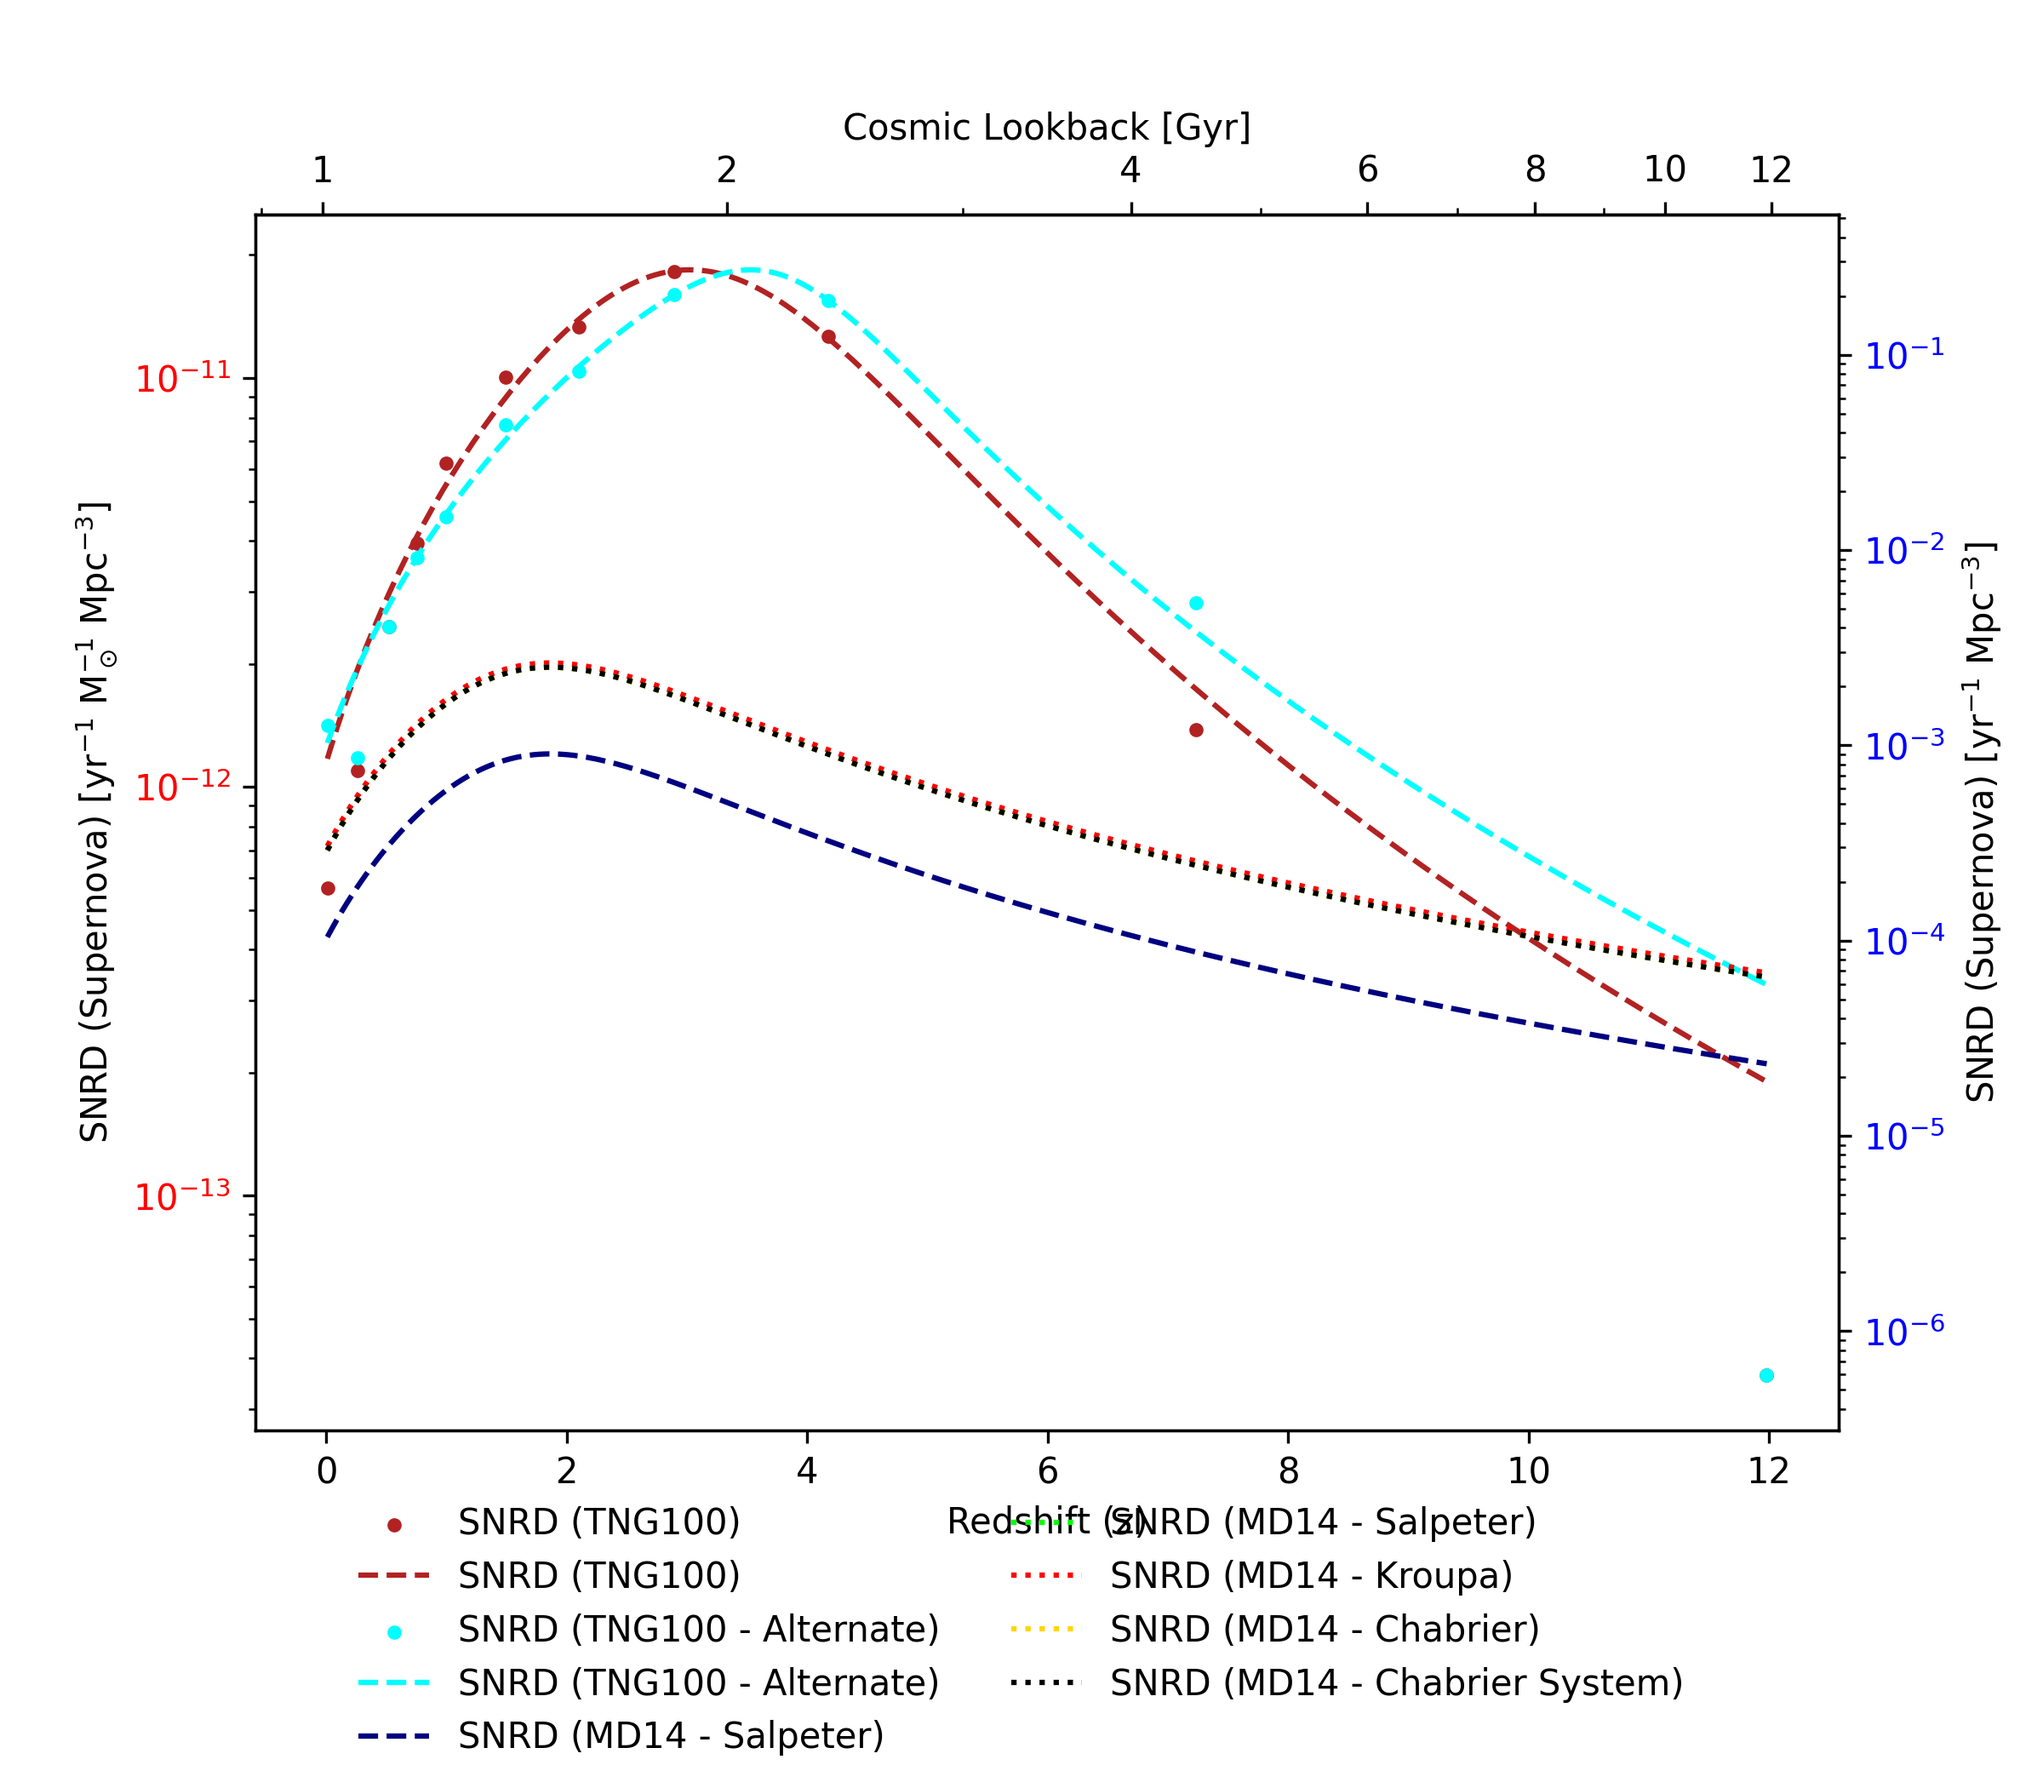
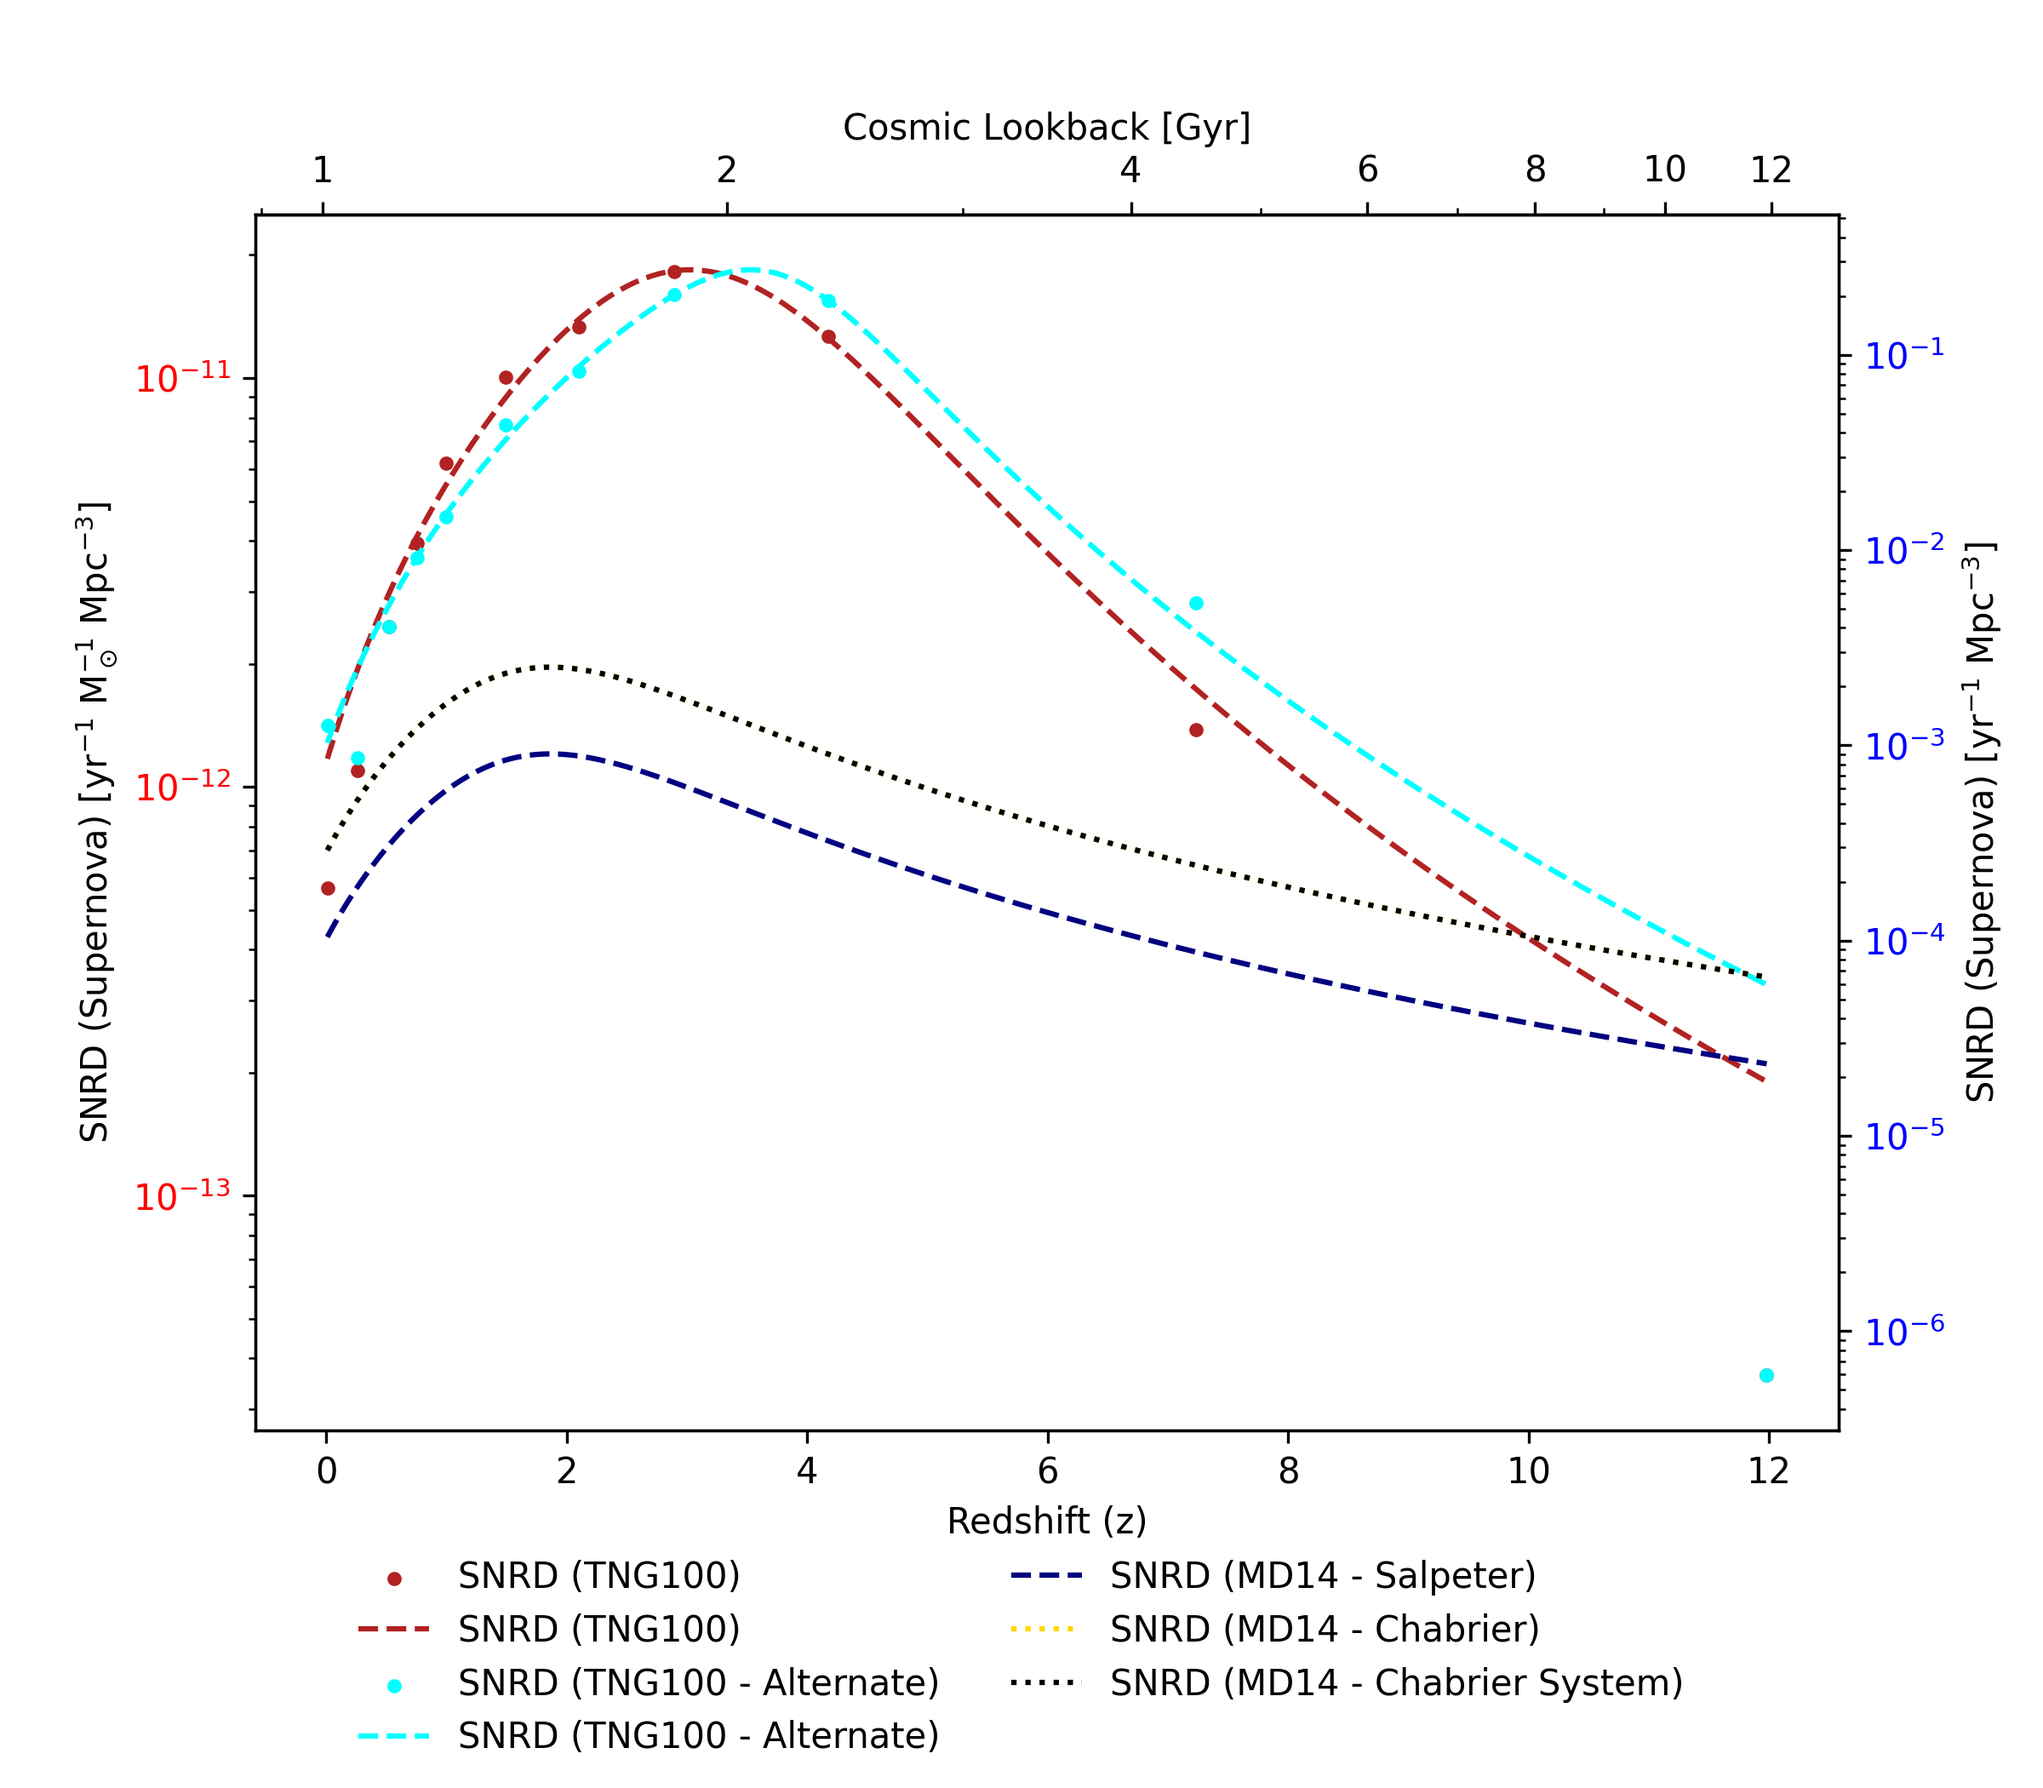
sfr from snr

diff --git a/tng.py b/tng.py
@@ -60,6 +60,7 @@ def count_lines_fast(path):
 
 # region Build
 def build_rates(snap):
+    build_type = "Ic"
     position = snapshots.index(snap) + 1
     input_path = f"/Users/dan/Code/FYP/Data/TNG/Snapshot_{snap}/*"
     my_glob = glob.glob(input_path)
@@ -92,7 +93,7 @@ def build_rates(snap):
 
     print(f"    {len(subhalo_rows)} subhalos with postive rates")
     subhalo_df = pd.DataFrame(subhalo_rows)
-    subhalo_df.to_csv(f"/Users/dan/Code/FYP/Data/TNG/Rates/Ic/snapshot{snap}_rates.csv")
+    subhalo_df.to_csv(f"/Users/dan/Code/FYP/Data/TNG/Rates/{build_type}/snapshot{snap}_rates.csv")
 
     return subhalo_df
 
@@ -503,6 +504,7 @@ def cosmic_level(snaps):
     # we will want a chabrier (need to caluclate it)
     # use IMFs defined previously 
     # formula is integral imf / integral mass * imf 
+    # kcc given in Mo-1 
     csnrh = csfrh * 0.0068
 
     kcc_salpeter = supernova_efficiency(imf.salpeter)
@@ -519,34 +521,41 @@ def cosmic_level(snaps):
     print(kcc_kroupa)
     print(kcc_chabrier)
     print(kcc_chabrier_sys)
+
+    # trace sfrd using snrd 
+    # use new units snrd in yr-1 Mpc-3 and divide by kcc (Mo-1) gets Mo yr-1 Mpc-3 (SFRD)
+    csfrh_kcc_md14 = md14_snrd_alt_scaled / 0.0068
+    csfrh_kcc_chabrier = md14_snrd_alt_scaled / kcc_chabrier
     
     # CSNRH plot
     fig_csnrh, ax_csnrh1, ax_csnrh2 = plt_cosmo(rev_redshifts, r'SNRD (Supernova) [$\mathrm{yr^{-1}\ M_\odot^{-1}\ Mpc^{-3}}$]', r'SNRD (Supernova) [$\mathrm{yr^{-1}\ Mpc^{-3}}$]', space=0.2)
     # scatters
     #sc_csnrh1 = ax_csnrh1.scatter(rev_redshifts, rev_snrd, color='Red', label='SNRD (TNG100)', marker='.')
-    sc_csnrh2 = ax_csnrh1.scatter(rev_redshifts, rev_snrd_1000_scaled, color='firebrick', label="SNRD (TNG100)", marker='.')
+    sc_csnrh2 = ax_csnrh1.scatter(rev_redshifts, rev_snrd_1000_scaled, color='firebrick', label="TNG100", marker='.')
     #sc_csnrh3 = ax_csnrh2.scatter(rev_redshifts, rev_snrd_alt, color='Blue', label='SNRD (TNG100 - no mass)', marker='.')
-    sc_csnrh4 = ax_csnrh2.scatter(rev_redshifts, rev_snrd_alt_scaled, color='Aqua', label='SNRD (TNG100 - Alternate)', marker='.')
+    sc_csnrh4 = ax_csnrh2.scatter(rev_redshifts, rev_snrd_alt_scaled, color='Aqua', label='TNG100 - Alternate', marker='.')
     # lines
     #ls_csnrh1, = ax_csnrh1.plot(redshift_linespace, md14_snrd, linestyle='--', color='Red', label="SNRD (TNG100)")
-    ls_csnrh2, = ax_csnrh1.plot(redshift_linespace, md14_snrd_scaled, linestyle='--', color='firebrick', label="SNRD (TNG100)")
+    ls_csnrh2, = ax_csnrh1.plot(redshift_linespace, md14_snrd_scaled, linestyle='--', color='firebrick', label="TNG100")
     #ls_csnrh3, = ax_csnrh2.plot(redshift_linespace, md14_snrd_alt, linestyle='--', color='Blue', label="SNRD (TNG100 - no mass)")
-    ls_csnrh4, = ax_csnrh2.plot(redshift_linespace, md14_snrd_alt_scaled, linestyle='--', color='Aqua', label="SNRD (TNG100 - Alternate)")
-    ls_csnrh5, = ax_csnrh2.plot(redshift_linespace, csnrh, linestyle='--', color='Navy', label="SNRD (MD14 - Salpeter)")
-    ls_csnrh6, = ax_csnrh2.plot(redshift_linespace, csnrh_salpeter, linestyle=':', color='lime', label="SNRD (MD14 - Salpeter)")
-    ls_csnrh7, = ax_csnrh2.plot(redshift_linespace, csnrh_kroupa, linestyle=':', color='red', label="SNRD (MD14 - Kroupa)")
-    ls_csnrh9, = ax_csnrh2.plot(redshift_linespace, csnrh_chabrier, linestyle=':', color='gold', label="SNRD (MD14 - Chabrier)")
-    ls_csnrh9, = ax_csnrh2.plot(redshift_linespace, csnrh_chabrier_sys, linestyle=':', color='black', label="SNRD (MD14 - Chabrier System)")
+    ls_csnrh4, = ax_csnrh2.plot(redshift_linespace, md14_snrd_alt_scaled, linestyle='--', color='Aqua', label="TNG100 - Alternate")
+    ls_csnrh5, = ax_csnrh2.plot(redshift_linespace, csnrh, linestyle='--', color='Navy', label="MD14 - Salpeter")
+    #ls_csnrh6, = ax_csnrh2.plot(redshift_linespace, csnrh_salpeter, linestyle=':', color='lime', label="SNRD (MD14 - Salpeter)")
+    #ls_csnrh7, = ax_csnrh2.plot(redshift_linespace, csnrh_kroupa, linestyle=':', color='red', label="SNRD (MD14 - Kroupa)")
+    ls_csnrh9, = ax_csnrh2.plot(redshift_linespace, csnrh_chabrier, linestyle=':', color='gold', label="MD14 - Chabrier")
+    ls_csnrh9, = ax_csnrh2.plot(redshift_linespace, csnrh_chabrier_sys, linestyle=':', color='black', label="MD14 - Chabrier System")
 
     # CSFRH plot
     fig_csfrh, ax_csfrd, _ = plt_cosmo(rev_redshifts, r'SFRD (Star Formation) [$\mathrm{M_\odot\ yr^{-1}\ Mpc^{-3}}$]', space=0.15)
     # scatters
     #sc2 = ax_csfrd.scatter(rev_redshifts, rev_sfrd_1000, color='Green', label='SFRD (TNG100 - Top 1000)', marker='.')
-    sc2 = ax_csfrd.scatter(rev_redshifts, rev_sfrd_all, color='lime', label='SFRD (TNG100 - All)', marker='.')
+    sc2 = ax_csfrd.scatter(rev_redshifts, rev_sfrd_all, color='lime', label='TNG100 - All', marker='.')
     # lines
     #ls_csfrh1, = ax_csfrd.plot(redshift_linespace, md14_snrd_1000, linestyle='--', color='Green', label="SFRD (TNG100 - Top 1000)")
-    ls_csfrh2, = ax_csfrd.plot(redshift_linespace, md14_snrd_all, linestyle='--', color='lime', label="SFRD (TNG100 - All)")
-    ls_csfrh3, = ax_csfrd.plot(redshift_linespace, csfrh, linestyle='--', color='forestgreen', label="SFRD (Madau & Dickinson 2014)")
+    ls_csfrh2, = ax_csfrd.plot(redshift_linespace, md14_snrd_all, linestyle='--', color='lime', label="TNG100)")
+    ls_csfrh3, = ax_csfrd.plot(redshift_linespace, csfrh, linestyle='--', color='forestgreen', label="Madau & Dickinson 2014)")
+    ls_csfrh2, = ax_csfrd.plot(redshift_linespace, csfrh_kcc_md14, linestyle='--', color='red', label="TNG100 - Kcc MD14)")
+    ls_csfrh3, = ax_csfrd.plot(redshift_linespace, csfrh_kcc_chabrier, linestyle='--', color='gold', label="TNG100 - Kcc Chabrier)")
 
     plt_labels_multiple(fig_csnrh, [ax_csnrh1, ax_csnrh2], 2)
     plt_labels(fig_csfrh, ax_csfrd, 2)
@@ -588,5 +597,8 @@ for sn_type in all_sn_types:
 
     ax_types1.plot(redshift_linespace, snrd, label=f'{sn_type}')
     ax_types2.plot(redshift_linespace, snrd_alt, label=f'{sn_type}')
+    plt_labels(fig_types1, ax_types1, 2)
+    plt_labels(fig_types2, ax_types2, 2)
+
 
 plt.show()
